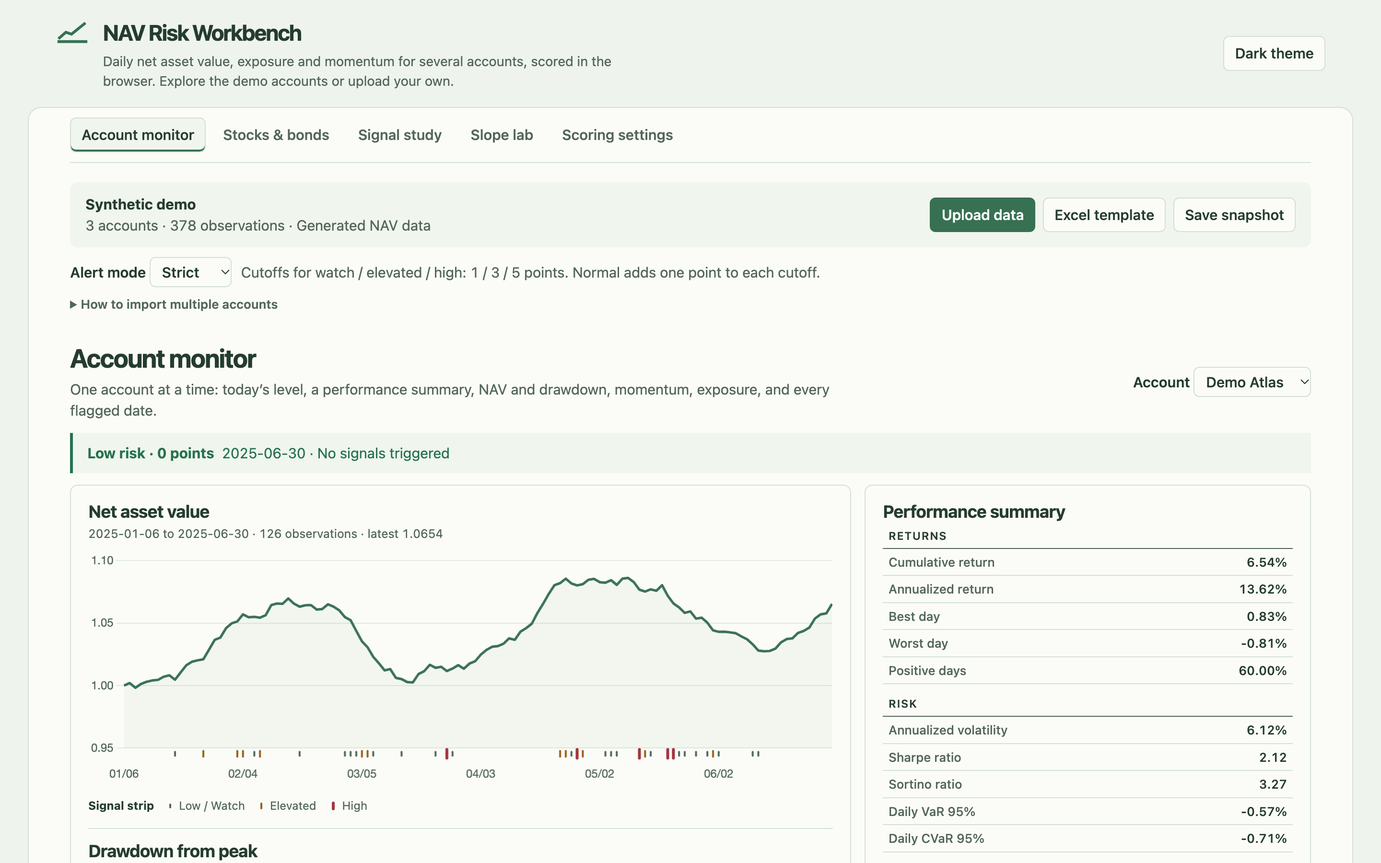
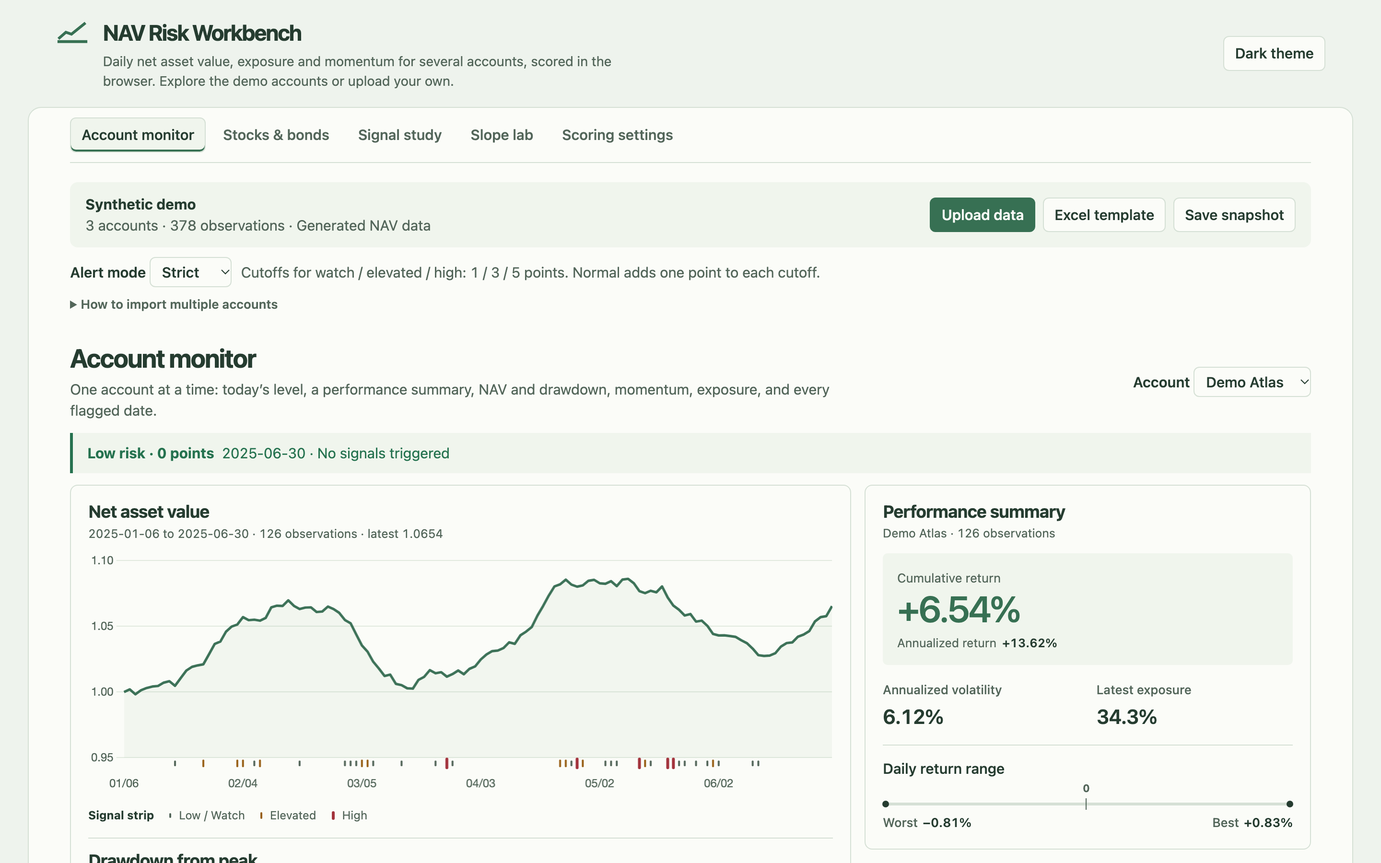
Performance summary as a focused card: cumulative return as the one highlight with annualized return beneath, volatility beside latest exposure, a daily return range on a zero-marked line; worst drawdowns move under the card and the full metrics become a four-group grid with collapsed calculation no

diff --git a/index.html b/index.html
@@ -6,17 +6,20 @@
 *{box-sizing:border-box}body{margin:0;background:var(--bg);color:var(--ink)}header,main{max-width:1410px;margin:auto}header,.brand,.actions,.bar,.mode,.filters,.title,footer,.legend{display:flex;align-items:center;gap:14px;flex-wrap:wrap}header{padding:17px 3%;justify-content:space-between}.brand{align-items:flex-start}.brand svg{width:35px;flex:none;margin-top:4px;color:var(--accent)}h1{font-size:23px;letter-spacing:-.045em;margin:0}.lede{margin:3px 0 0;font-size:14px;line-height:1.45;color:var(--muted);max-width:62ch}main{background:var(--paper);border:1px solid var(--line);border-radius:14px;padding:0 clamp(16px,3vw,44px);width:96%;margin-bottom:20px}nav{display:flex;gap:6px;border-bottom:1px solid var(--line);padding:10px 0;flex-wrap:wrap}button,.file,select,input{font:inherit}button,.file,select{border:1px solid var(--line);color:var(--ink);background:var(--paper);border-radius:6px;padding:6px 11px;font-weight:550;cursor:pointer}button:hover,.file:hover{background:var(--tint);border-color:var(--muted)}button:focus-visible,select:focus-visible,input:focus-visible,textarea:focus-visible,.file:focus-within{outline:2px solid var(--accent);outline-offset:2px}.primary{background:var(--accent);border-color:var(--accent);color:var(--paper)}.primary:hover{background:var(--ink);color:var(--paper)}nav button{border-color:transparent;background:transparent;color:var(--muted)}nav button.active,.seg button.active{color:var(--ink);background:var(--tint);border-color:var(--line)}nav button.active{box-shadow:inset 0 -2px 0 var(--accent)}.file{position:relative}.file input{height:1px;width:1px;opacity:0;position:absolute}.bar{justify-content:space-between;background:var(--tint);padding:12px 16px;border-radius:8px}.actions{gap:8px}#workspace{margin:20px 0}.mode{margin-top:10px;gap:10px}.mode span,.muted,p,footer,.hint{color:var(--muted)}p{margin:5px 0 12px;max-width:87ch}label{font-weight:600}select{padding:5px 8px;max-width:100%}output{display:block;color:var(--accent)}output.error{color:var(--red)}.title{justify-content:space-between;margin:22px 0 12px}.title p{margin-bottom:0}h2,h3,h4{margin:0;color:var(--ink);line-height:1.22}h2{font-size:27px;letter-spacing:-.04em}h3{font-size:18px;letter-spacing:-.02em}h4{font-size:15px}section[data-view]{padding-bottom:20px}.panel,details{border:1px solid var(--line);border-radius:8px;padding:16px 18px;margin-top:12px;min-width:0}.panel p:last-child,details p:last-child{margin-bottom:0}.riskline{padding:10px 15px;border-left:3px solid var(--accent);background:var(--tint)}.riskline.level-Low{border-left-color:var(--good)}.riskline.level-Watch,.riskline.level-Elevated{border-left-color:var(--amber)}.riskline.level-High{border-left-color:var(--red)}.riskline b{margin-right:8px}.metrics{display:grid;grid-template-columns:repeat(4,minmax(0,1fr));margin:14px 0;border-block:1px solid var(--line)}.metric{padding:13px 14px}.metric+.metric{border-left:1px solid var(--line)}.metric b{font-size:26px;display:block;letter-spacing:-.04em;font-weight:550}.metric small,.hint,small{color:var(--muted)}.spark{position:relative;height:22px;margin-top:5px}.pair{display:grid;grid-template-columns:repeat(2,minmax(0,1fr));gap:14px}.plot{position:relative;height:230px}.pair .plot{height:195px}.top{display:flex;align-items:center;justify-content:space-between;gap:12px;margin-bottom:8px;flex-wrap:wrap}.legend{font-size:13px;color:var(--muted);gap:15px;margin:6px 0}.legend i{display:inline-block;width:14px;height:3px;vertical-align:middle;margin-right:5px}.seg{display:flex}.seg button{font-size:13px}.table{overflow:auto;max-width:100%}table{border-collapse:collapse;width:100%;font-size:14px}th,td{border-bottom:1px solid var(--line);padding:9px 10px;text-align:left;white-space:nowrap}th{color:var(--muted);font-weight:550}td.num,th.num{text-align:right}td.wrap{white-space:normal;min-width:160px}.filters,.settings-controls{display:flex;align-items:center;flex-wrap:wrap;gap:12px;margin-top:10px}summary{cursor:pointer;font-weight:600}details p{margin-top:10px}textarea{background:var(--paper);color:var(--ink);border:1px solid var(--line);border-radius:5px;width:100%;height:170px;padding:10px;font-size:15px;margin:8px 0;resize:vertical}input[type=number]{width:80px;color:var(--ink);background:var(--paper);border:1px solid var(--line);padding:5px;border-radius:4px}.barchart{display:grid;gap:9px}.bucket{display:grid;grid-template-columns:136px 1fr 150px;align-items:center;gap:8px}.bucket small{color:var(--muted);margin-left:8px;font-variant-numeric:tabular-nums}.bucket i{height:8px;background:var(--accent);display:block}.bucket span:last-child{text-align:right}footer{border-top:1px solid var(--line);padding:16px 0;font-size:13px;justify-content:space-between}.pill{display:inline-block;padding:2px 9px;border-radius:999px;font-size:12.5px;font-weight:600;background:var(--tint);line-height:1.4}.level-High{color:var(--red)}.level-Elevated,.level-Watch{color:var(--amber)}.level-Low{color:var(--good)}[hidden]{display:none!important}a{color:var(--accent)}
 @media(max-width:760px){header{padding:10px 14px}h1{font-size:19px}main{width:100%;border-radius:0;border-inline:0}.pair{grid-template-columns:1fr}.metrics{grid-template-columns:repeat(2,minmax(0,1fr))}.metric:nth-child(3){border-left:0}.bar,.title{align-items:flex-start}.panel{padding:12px}.plot{height:210px}nav{gap:2px}nav button{font-size:13px;padding:6px}.mode{align-items:flex-start;flex-direction:column}.bucket{grid-template-columns:102px 1fr 112px;font-size:13px}.settings-controls label{font-size:14px}.metric b{font-size:22px}}
 .uploadHelp{margin:8px 0;padding:0;border:0;font-size:13px}.uploadHelp summary{color:var(--muted)}
-.trajectory .plot{height:252px}.trajectory .plot.dd{height:140px}
+.trajectory .plot{height:262px}.trajectory .plot.dd{height:150px}
 .top.under{margin-top:14px;padding-top:12px;border-top:1px solid var(--line)}
 .signal-key,.signal-key span{display:flex;align-items:center;gap:8px}
 .signal-key{flex-wrap:wrap;gap:9px 16px;margin-top:5px;color:var(--muted);font-size:12px}
 .signal-key b{color:var(--ink)}.signal-key i{width:2px;height:5px;background:var(--muted);border-radius:2px}
 .signal-key .elevated{height:7px;background:var(--amber)}.signal-key .high{width:3px;height:9px;background:var(--red)}
-.tear{display:grid;grid-template-columns:minmax(0,1.75fr) minmax(0,1fr);gap:14px}.tear2{display:grid;grid-template-columns:minmax(0,1fr) minmax(0,1.25fr);gap:14px}
-.kv{width:100%;border-collapse:collapse;font-size:13px;margin-top:2px}.kv th,.kv td{border-bottom:1px solid var(--line);padding:4px 6px;white-space:nowrap}.kv th{text-align:left;font-weight:500;color:var(--muted)}.kv td{text-align:right;font-weight:550}
-.kv tr.group th{padding-top:12px;font-size:11.5px;letter-spacing:.07em;text-transform:uppercase;color:var(--ink);font-weight:600;border-bottom-color:var(--muted)}.kv tr.group:first-child th{padding-top:4px}
-.foot{display:block;margin-top:10px;font-size:12.5px;line-height:1.4}.monthly th,.monthly td{padding:7px 6px;font-size:13px}.monthly th:first-child{text-align:left}.neg{color:var(--red)}
-@media(max-width:1000px){.tear,.tear2{grid-template-columns:1fr}}
+.tear{display:grid;grid-template-columns:minmax(0,1.75fr) minmax(0,1fr);gap:14px}.side{display:flex;flex-direction:column;gap:14px;margin-top:12px;min-width:0}.side .panel{margin-top:0}.side .panel:last-child{flex:1}
+.summary>small{display:block;margin-top:2px}.lead{margin-top:12px;background:var(--tint);padding:14px 15px;border-radius:5px}.lead span{font-size:13px;color:var(--muted)}.lead strong{display:block;font-size:38px;line-height:1.15;font-weight:570;letter-spacing:-.05em;color:var(--accent)}.lead strong.neg{color:var(--red)}.lead small{display:block;margin-top:4px;color:var(--muted)}.lead small b{color:var(--ink);font-weight:600;margin-left:6px}
+.row{display:grid;grid-template-columns:1fr 1fr;gap:18px;margin:0;padding:16px 0 14px}.row dt{font-size:13px;color:var(--muted);font-weight:500}.row dd{margin:3px 0 0;font-weight:600;font-size:21px;letter-spacing:-.02em}
+.range{margin:0;border-top:1px solid var(--line);padding:13px 0 2px}.range figcaption{font-weight:550;margin-bottom:24px}.track{position:relative;height:3px;margin:0 3px;background:var(--line);border-radius:3px}.track i,.track b{position:absolute;top:50%;width:7px;height:7px;background:var(--ink);border-radius:50%;transform:translate(-50%,-50%)}.track i:first-child{left:0}.track i:last-child{left:100%}.track b{width:1px;height:12px;border-radius:0;background:var(--muted)}.track b em{position:absolute;left:50%;top:-16px;transform:translateX(-50%);font-size:11px;line-height:1;font-style:normal;color:var(--muted)}.ends{display:flex;justify-content:space-between;margin-top:8px;font-size:13px;font-weight:600}.ends span{color:var(--muted);font-weight:500;margin-right:5px}
+.mgrid{display:grid;grid-template-columns:repeat(4,minmax(0,1fr));gap:22px;margin:14px 0 2px}.mgrid h4{border-bottom:1px solid var(--line);padding-bottom:8px;font-size:11.5px;letter-spacing:.07em;text-transform:uppercase}.mgrid dl{display:grid;grid-template-columns:minmax(0,1fr) auto;gap:7px 14px;margin:10px 0 0}.mgrid dt{color:var(--muted);font-size:13.5px}.mgrid dd{margin:0;text-align:right;font-weight:550;font-size:13.5px;white-space:nowrap}
+.panel details.method{border:0;border-top:1px solid var(--line);border-radius:0;padding:12px 0 0;margin-top:16px}.method summary{font-size:14px}.method p{font-size:13px;margin:8px 0 0}
+.monthly th,.monthly td{padding:7px 6px;font-size:13px}.monthly th:first-child{text-align:left}.neg{color:var(--red)}
+@media(max-width:1000px){.tear{grid-template-columns:1fr}.mgrid{grid-template-columns:repeat(2,minmax(0,1fr))}}@media(max-width:540px){.mgrid{grid-template-columns:1fr;gap:6px}.mgrid section+section{margin-top:14px}.lead strong{font-size:34px}}
 #monitor .pair .plot{height:215px}.minis{display:grid;gap:8px}.minis small{display:block;margin-bottom:2px;color:var(--muted)}.minis .plot{height:96px}.legend-note{margin:0 0 6px;font-size:13px;color:var(--muted)}
 @media(max-width:760px){.trajectory .plot{height:205px}.trajectory .plot.dd{height:100px}.signal-key{gap:7px 12px}}
 </style></head>
@@ -481,13 +484,21 @@ function monitor(){
   const days=Number(SCORE_CONFIG.capacity.tradingDaysPerYear)||252, s=summarize(d,days);
   const latest=last.signals?last.signals.split('|').join(' · '):'No signals triggered';
   const rows=d.filter(r=>r.signals).slice(-40).reverse().map(r=>[r.date,r.score,r.signals.split('|').join(' · '),r.action||'—','<span class="pill level-'+r.level+'">'+r.level+'</span>']);
-  const kv=(label,value)=>'<tr><th>'+label+'</th><td>'+value+'</td></tr>', group=name=>'<tr class="group"><th colspan="2">'+name+'</th></tr>';
-  const summary='<table class="kv">'+
-    group('Returns')+kv('Cumulative return',percent(s.total))+kv('Annualized return',percent(s.cagr))+kv('Best day',percent(s.best))+kv('Worst day',percent(s.worst))+kv('Positive days',percent(s.winRate))+
-    group('Risk')+kv('Annualized volatility',percent(s.vol))+kv('Sharpe ratio',fmt(s.sharpe))+kv('Sortino ratio',fmt(s.sortino))+kv('Daily VaR 95%',percent(s.var95))+kv('Daily CVaR 95%',percent(s.cvar95))+
-    group('Drawdown')+kv('Max drawdown',percent(s.maxDD))+kv('Longest drawdown',s.longest?s.longest+' obs':'—')+kv('Calmar ratio',fmt(s.calmar))+kv('Current drawdown',percent(last.dd))+
-    group('Exposure')+kv('Latest exposure',fmt(last.risk,1,'%'))+kv('Average exposure',fmt(s.avgRisk,1,'%'))+kv('Peak exposure',fmt(s.maxRisk,1,'%'))+'</table>';
-  const periods=drawdownPeriods(d).slice(0,5).map(p=>[p.start,p.trough,p.end||'<span class="pill level-Watch">Ongoing</span>',percent(p.depth),p.length]);
+  const name=active==='combined'?'Combined · equal weight':escapeHTML(active.slice(8));
+  const signed=(v,digits=2)=>v==null||!Number.isFinite(v)?'—':(v>0?'+':v<0?'−':'')+Math.abs(v*100).toFixed(digits)+'%';
+  const span=s.best!=null&&s.worst!=null&&s.best>s.worst?s.best-s.worst:null;
+  const zero=span?clamp(-s.worst/span*100,0,100):50;
+  const range=s.best==null?'':'<figure class="range"><figcaption>Daily return range</figcaption><div class="track" aria-hidden="true"><i></i><b style="left:'+zero.toFixed(2)+'%"><em>0</em></b><i></i></div><div class="ends"><div><span>Worst</span>'+signed(s.worst)+'</div><div><span>Best</span>'+signed(s.best)+'</div></div></figure>';
+  const card='<div class="panel summary"><h3>Performance summary</h3><small>'+name+' · '+s.n+' observations</small>'+
+    '<div class="lead"><span>Cumulative return</span><strong class="'+(s.total<0?'neg':'')+'">'+signed(s.total)+'</strong><small>Annualized return<b>'+signed(s.cagr)+'</b></small></div>'+
+    '<dl class="row"><div><dt>Annualized volatility</dt><dd>'+percent(s.vol)+'</dd></div><div><dt>Latest exposure</dt><dd>'+fmt(last.risk,1,'%')+'</dd></div></dl>'+range+'</div>';
+  const groups=[['Returns',[['Cumulative return',signed(s.total)],['Annualized return',signed(s.cagr)],['Best day',signed(s.best)],['Worst day',signed(s.worst)],['Positive days',percent(s.winRate)]]],
+    ['Risk',[['Annualized volatility',percent(s.vol)],['Sharpe ratio',fmt(s.sharpe)],['Sortino ratio',fmt(s.sortino)],['Daily VaR 95%',signed(s.var95)],['Daily CVaR 95%',signed(s.cvar95)]]],
+    ['Drawdown',[['Max drawdown',signed(s.maxDD)],['Longest drawdown',s.longest?s.longest+' obs':'—'],['Calmar ratio',fmt(s.calmar)],['Current drawdown',signed(last.dd)]]],
+    ['Exposure',[['Latest exposure',fmt(last.risk,1,'%')],['Average exposure',fmt(s.avgRisk,1,'%')],['Peak exposure',fmt(s.maxRisk,1,'%')]]]];
+  const metrics='<div class="panel"><h3>Performance metrics</h3><small>'+name+' · '+s.start+' to '+s.end+' · '+s.n+' observations</small><div class="mgrid">'+groups.map(([g,items])=>'<section><h4>'+g+'</h4><dl>'+items.map(([k,v])=>'<dt>'+k+'</dt><dd>'+v+'</dd>').join('')+'</dl></section>').join('')+'</div>'+
+    '<details class="method"><summary>Calculation notes</summary><p>Each observation counts as one trading day; annualized figures use '+days+' per year. Daily VaR is the historical 5th percentile of daily returns and CVaR the mean of that tail. Sharpe and Sortino assume a zero risk-free rate. A drawdown’s length counts observations from the peak.</p></details></div>';
+  const periods=drawdownPeriods(d).slice(0,5).map(p=>[p.start,p.end||'<span class="pill level-Watch">Ongoing</span>',signed(p.depth),p.length]);
   const months=['Jan','Feb','Mar','Apr','May','Jun','Jul','Aug','Sep','Oct','Nov','Dec'], pct1=v=>v==null?'—':'<span class="'+(v<0?'neg':'')+'">'+fmt(v*100,1,'%')+'</span>';
   const monthly='<div class="table"><table class="monthly"><thead><tr><th>Year</th>'+months.map(m=>'<th class="num">'+m+'</th>').join('')+'<th class="num">Year</th></tr></thead><tbody>'+
     monthlyReturns(d).map(y=>'<tr><th>'+y.year+'</th>'+months.map((_,i)=>'<td class="num">'+pct1(y.months[i+1])+'</td>').join('')+'<td class="num"><b>'+pct1(y.total)+'</b></td></tr>').join('')+'</tbody></table></div>';
@@ -495,11 +506,11 @@ function monitor(){
     '<div class="tear"><div class="panel trajectory"><div class="top"><div><h3>Net asset value</h3><small>'+s.start+' to '+s.end+' · '+s.n+' observations · latest '+fmt(last.nav,4)+'</small></div></div>'+
     '<div class="plot"><canvas id="navChart" role="img" aria-label="Net asset value with signal dates marked along the time axis"></canvas></div>'+
     '<div class="signal-key"><b>Signal strip</b><span><i></i>Low / Watch</span><span><i class="elevated"></i>Elevated</span><span><i class="high"></i>High</span></div>'+
-    '<div class="top under"><div><h3>Drawdown from peak</h3><small>Worst '+percent(s.maxDD)+' · now '+percent(last.dd)+'</small></div></div><div class="plot dd"><canvas id="ddChart" role="img" aria-label="Drawdown from peak, in percent"></canvas></div></div>'+
-    '<div class="panel summary"><h3>Performance summary</h3>'+summary+'<small class="foot">Each observation counts as one trading day; annualized figures use '+days+' per year. VaR and CVaR are the historical 5th percentile of daily returns and the mean below it. Sharpe and Sortino assume a zero risk-free rate.</small></div></div><div class="pair">'+
+    '<div class="top under"><div><h3>Drawdown from peak</h3><small>Worst '+signed(s.maxDD)+' · now '+signed(last.dd)+'</small></div></div><div class="plot dd"><canvas id="ddChart" role="img" aria-label="Drawdown from peak, in percent"></canvas></div></div>'+
+    '<div class="side">'+card+'<div class="panel"><h3>Worst drawdowns</h3><p>Peak to recovery, deepest first. Length counts observations from the peak.</p>'+(periods.length?table(['Started','Recovered','Depth','Length'],periods,[2,3]):'<p>No drawdown in this series.</p>')+'</div></div></div>'+
+    metrics+'<div class="pair">'+
     panel('Momentum slopes','slopes','NAV change (%) per observation. The 3-obs slope leads; the 10-obs slope is its reference. Click a legend entry to hide a line.')+'<div class="panel"><h3>Exposure and volatility</h3><p>Capital in use, then annualized 10-return volatility, on the same dates.</p><div class="minis"><div><small>Exposure (%)</small><div class="plot"><canvas id="risk" role="img" aria-label="Exposure"></canvas></div></div><div><small>Annualized volatility (%)</small><div class="plot"><canvas id="vol" role="img" aria-label="Annualized volatility"></canvas></div></div></div></div></div>'+
-    '<div class="tear2"><div class="panel"><h3>Worst drawdowns</h3><p>Peak to recovery, deepest first. Length counts observations from the peak.</p>'+(periods.length?table(['Started','Trough','Recovered','Depth','Length'],periods,[3,4]):'<p>No drawdown in this series.</p>')+'</div>'+
-    '<div class="panel"><h3>Monthly returns</h3><p>Chained from the daily returns inside each calendar month.</p>'+monthly+'</div></div>'+
+    '<div class="panel"><h3>Monthly returns</h3><p>Chained from the daily returns inside each calendar month.</p>'+monthly+'</div>'+
     '<div class="panel"><h3>Alert history</h3><p>Latest 40 flagged observations, newest first.</p>'+
     (rows.length?table(['Date','Score','Signals','Review note','Level'],rows,[1]):'<p>No signals in this series.</p>')+'</div>';
   plot('navChart',labels,[line('NAV',d.map(r=>r.nav),'forest',{

diff --git a/src/style.css b/src/style.css
@@ -3,16 +3,19 @@
 *{box-sizing:border-box}body{margin:0;background:var(--bg);color:var(--ink)}header,main{max-width:1410px;margin:auto}header,.brand,.actions,.bar,.mode,.filters,.title,footer,.legend{display:flex;align-items:center;gap:14px;flex-wrap:wrap}header{padding:17px 3%;justify-content:space-between}.brand{align-items:flex-start}.brand svg{width:35px;flex:none;margin-top:4px;color:var(--accent)}h1{font-size:23px;letter-spacing:-.045em;margin:0}.lede{margin:3px 0 0;font-size:14px;line-height:1.45;color:var(--muted);max-width:62ch}main{background:var(--paper);border:1px solid var(--line);border-radius:14px;padding:0 clamp(16px,3vw,44px);width:96%;margin-bottom:20px}nav{display:flex;gap:6px;border-bottom:1px solid var(--line);padding:10px 0;flex-wrap:wrap}button,.file,select,input{font:inherit}button,.file,select{border:1px solid var(--line);color:var(--ink);background:var(--paper);border-radius:6px;padding:6px 11px;font-weight:550;cursor:pointer}button:hover,.file:hover{background:var(--tint);border-color:var(--muted)}button:focus-visible,select:focus-visible,input:focus-visible,textarea:focus-visible,.file:focus-within{outline:2px solid var(--accent);outline-offset:2px}.primary{background:var(--accent);border-color:var(--accent);color:var(--paper)}.primary:hover{background:var(--ink);color:var(--paper)}nav button{border-color:transparent;background:transparent;color:var(--muted)}nav button.active,.seg button.active{color:var(--ink);background:var(--tint);border-color:var(--line)}nav button.active{box-shadow:inset 0 -2px 0 var(--accent)}.file{position:relative}.file input{height:1px;width:1px;opacity:0;position:absolute}.bar{justify-content:space-between;background:var(--tint);padding:12px 16px;border-radius:8px}.actions{gap:8px}#workspace{margin:20px 0}.mode{margin-top:10px;gap:10px}.mode span,.muted,p,footer,.hint{color:var(--muted)}p{margin:5px 0 12px;max-width:87ch}label{font-weight:600}select{padding:5px 8px;max-width:100%}output{display:block;color:var(--accent)}output.error{color:var(--red)}.title{justify-content:space-between;margin:22px 0 12px}.title p{margin-bottom:0}h2,h3,h4{margin:0;color:var(--ink);line-height:1.22}h2{font-size:27px;letter-spacing:-.04em}h3{font-size:18px;letter-spacing:-.02em}h4{font-size:15px}section[data-view]{padding-bottom:20px}.panel,details{border:1px solid var(--line);border-radius:8px;padding:16px 18px;margin-top:12px;min-width:0}.panel p:last-child,details p:last-child{margin-bottom:0}.riskline{padding:10px 15px;border-left:3px solid var(--accent);background:var(--tint)}.riskline.level-Low{border-left-color:var(--good)}.riskline.level-Watch,.riskline.level-Elevated{border-left-color:var(--amber)}.riskline.level-High{border-left-color:var(--red)}.riskline b{margin-right:8px}.metrics{display:grid;grid-template-columns:repeat(4,minmax(0,1fr));margin:14px 0;border-block:1px solid var(--line)}.metric{padding:13px 14px}.metric+.metric{border-left:1px solid var(--line)}.metric b{font-size:26px;display:block;letter-spacing:-.04em;font-weight:550}.metric small,.hint,small{color:var(--muted)}.spark{position:relative;height:22px;margin-top:5px}.pair{display:grid;grid-template-columns:repeat(2,minmax(0,1fr));gap:14px}.plot{position:relative;height:230px}.pair .plot{height:195px}.top{display:flex;align-items:center;justify-content:space-between;gap:12px;margin-bottom:8px;flex-wrap:wrap}.legend{font-size:13px;color:var(--muted);gap:15px;margin:6px 0}.legend i{display:inline-block;width:14px;height:3px;vertical-align:middle;margin-right:5px}.seg{display:flex}.seg button{font-size:13px}.table{overflow:auto;max-width:100%}table{border-collapse:collapse;width:100%;font-size:14px}th,td{border-bottom:1px solid var(--line);padding:9px 10px;text-align:left;white-space:nowrap}th{color:var(--muted);font-weight:550}td.num,th.num{text-align:right}td.wrap{white-space:normal;min-width:160px}.filters,.settings-controls{display:flex;align-items:center;flex-wrap:wrap;gap:12px;margin-top:10px}summary{cursor:pointer;font-weight:600}details p{margin-top:10px}textarea{background:var(--paper);color:var(--ink);border:1px solid var(--line);border-radius:5px;width:100%;height:170px;padding:10px;font-size:15px;margin:8px 0;resize:vertical}input[type=number]{width:80px;color:var(--ink);background:var(--paper);border:1px solid var(--line);padding:5px;border-radius:4px}.barchart{display:grid;gap:9px}.bucket{display:grid;grid-template-columns:136px 1fr 150px;align-items:center;gap:8px}.bucket small{color:var(--muted);margin-left:8px;font-variant-numeric:tabular-nums}.bucket i{height:8px;background:var(--accent);display:block}.bucket span:last-child{text-align:right}footer{border-top:1px solid var(--line);padding:16px 0;font-size:13px;justify-content:space-between}.pill{display:inline-block;padding:2px 9px;border-radius:999px;font-size:12.5px;font-weight:600;background:var(--tint);line-height:1.4}.level-High{color:var(--red)}.level-Elevated,.level-Watch{color:var(--amber)}.level-Low{color:var(--good)}[hidden]{display:none!important}a{color:var(--accent)}
 @media(max-width:760px){header{padding:10px 14px}h1{font-size:19px}main{width:100%;border-radius:0;border-inline:0}.pair{grid-template-columns:1fr}.metrics{grid-template-columns:repeat(2,minmax(0,1fr))}.metric:nth-child(3){border-left:0}.bar,.title{align-items:flex-start}.panel{padding:12px}.plot{height:210px}nav{gap:2px}nav button{font-size:13px;padding:6px}.mode{align-items:flex-start;flex-direction:column}.bucket{grid-template-columns:102px 1fr 112px;font-size:13px}.settings-controls label{font-size:14px}.metric b{font-size:22px}}
 .uploadHelp{margin:8px 0;padding:0;border:0;font-size:13px}.uploadHelp summary{color:var(--muted)}
-.trajectory .plot{height:252px}.trajectory .plot.dd{height:140px}
+.trajectory .plot{height:262px}.trajectory .plot.dd{height:150px}
 .top.under{margin-top:14px;padding-top:12px;border-top:1px solid var(--line)}
 .signal-key,.signal-key span{display:flex;align-items:center;gap:8px}
 .signal-key{flex-wrap:wrap;gap:9px 16px;margin-top:5px;color:var(--muted);font-size:12px}
 .signal-key b{color:var(--ink)}.signal-key i{width:2px;height:5px;background:var(--muted);border-radius:2px}
 .signal-key .elevated{height:7px;background:var(--amber)}.signal-key .high{width:3px;height:9px;background:var(--red)}
-.tear{display:grid;grid-template-columns:minmax(0,1.75fr) minmax(0,1fr);gap:14px}.tear2{display:grid;grid-template-columns:minmax(0,1fr) minmax(0,1.25fr);gap:14px}
-.kv{width:100%;border-collapse:collapse;font-size:13px;margin-top:2px}.kv th,.kv td{border-bottom:1px solid var(--line);padding:4px 6px;white-space:nowrap}.kv th{text-align:left;font-weight:500;color:var(--muted)}.kv td{text-align:right;font-weight:550}
-.kv tr.group th{padding-top:12px;font-size:11.5px;letter-spacing:.07em;text-transform:uppercase;color:var(--ink);font-weight:600;border-bottom-color:var(--muted)}.kv tr.group:first-child th{padding-top:4px}
-.foot{display:block;margin-top:10px;font-size:12.5px;line-height:1.4}.monthly th,.monthly td{padding:7px 6px;font-size:13px}.monthly th:first-child{text-align:left}.neg{color:var(--red)}
-@media(max-width:1000px){.tear,.tear2{grid-template-columns:1fr}}
+.tear{display:grid;grid-template-columns:minmax(0,1.75fr) minmax(0,1fr);gap:14px}.side{display:flex;flex-direction:column;gap:14px;margin-top:12px;min-width:0}.side .panel{margin-top:0}.side .panel:last-child{flex:1}
+.summary>small{display:block;margin-top:2px}.lead{margin-top:12px;background:var(--tint);padding:14px 15px;border-radius:5px}.lead span{font-size:13px;color:var(--muted)}.lead strong{display:block;font-size:38px;line-height:1.15;font-weight:570;letter-spacing:-.05em;color:var(--accent)}.lead strong.neg{color:var(--red)}.lead small{display:block;margin-top:4px;color:var(--muted)}.lead small b{color:var(--ink);font-weight:600;margin-left:6px}
+.row{display:grid;grid-template-columns:1fr 1fr;gap:18px;margin:0;padding:16px 0 14px}.row dt{font-size:13px;color:var(--muted);font-weight:500}.row dd{margin:3px 0 0;font-weight:600;font-size:21px;letter-spacing:-.02em}
+.range{margin:0;border-top:1px solid var(--line);padding:13px 0 2px}.range figcaption{font-weight:550;margin-bottom:24px}.track{position:relative;height:3px;margin:0 3px;background:var(--line);border-radius:3px}.track i,.track b{position:absolute;top:50%;width:7px;height:7px;background:var(--ink);border-radius:50%;transform:translate(-50%,-50%)}.track i:first-child{left:0}.track i:last-child{left:100%}.track b{width:1px;height:12px;border-radius:0;background:var(--muted)}.track b em{position:absolute;left:50%;top:-16px;transform:translateX(-50%);font-size:11px;line-height:1;font-style:normal;color:var(--muted)}.ends{display:flex;justify-content:space-between;margin-top:8px;font-size:13px;font-weight:600}.ends span{color:var(--muted);font-weight:500;margin-right:5px}
+.mgrid{display:grid;grid-template-columns:repeat(4,minmax(0,1fr));gap:22px;margin:14px 0 2px}.mgrid h4{border-bottom:1px solid var(--line);padding-bottom:8px;font-size:11.5px;letter-spacing:.07em;text-transform:uppercase}.mgrid dl{display:grid;grid-template-columns:minmax(0,1fr) auto;gap:7px 14px;margin:10px 0 0}.mgrid dt{color:var(--muted);font-size:13.5px}.mgrid dd{margin:0;text-align:right;font-weight:550;font-size:13.5px;white-space:nowrap}
+.panel details.method{border:0;border-top:1px solid var(--line);border-radius:0;padding:12px 0 0;margin-top:16px}.method summary{font-size:14px}.method p{font-size:13px;margin:8px 0 0}
+.monthly th,.monthly td{padding:7px 6px;font-size:13px}.monthly th:first-child{text-align:left}.neg{color:var(--red)}
+@media(max-width:1000px){.tear{grid-template-columns:1fr}.mgrid{grid-template-columns:repeat(2,minmax(0,1fr))}}@media(max-width:540px){.mgrid{grid-template-columns:1fr;gap:6px}.mgrid section+section{margin-top:14px}.lead strong{font-size:34px}}
 #monitor .pair .plot{height:215px}.minis{display:grid;gap:8px}.minis small{display:block;margin-bottom:2px;color:var(--muted)}.minis .plot{height:96px}.legend-note{margin:0 0 6px;font-size:13px;color:var(--muted)}
 @media(max-width:760px){.trajectory .plot{height:205px}.trajectory .plot.dd{height:100px}.signal-key{gap:7px 12px}}

diff --git a/src/app.js b/src/app.js
@@ -124,13 +124,21 @@ function monitor(){
   const days=Number(SCORE_CONFIG.capacity.tradingDaysPerYear)||252, s=summarize(d,days);
   const latest=last.signals?last.signals.split('|').join(' · '):'No signals triggered';
   const rows=d.filter(r=>r.signals).slice(-40).reverse().map(r=>[r.date,r.score,r.signals.split('|').join(' · '),r.action||'—','<span class="pill level-'+r.level+'">'+r.level+'</span>']);
-  const kv=(label,value)=>'<tr><th>'+label+'</th><td>'+value+'</td></tr>', group=name=>'<tr class="group"><th colspan="2">'+name+'</th></tr>';
-  const summary='<table class="kv">'+
-    group('Returns')+kv('Cumulative return',percent(s.total))+kv('Annualized return',percent(s.cagr))+kv('Best day',percent(s.best))+kv('Worst day',percent(s.worst))+kv('Positive days',percent(s.winRate))+
-    group('Risk')+kv('Annualized volatility',percent(s.vol))+kv('Sharpe ratio',fmt(s.sharpe))+kv('Sortino ratio',fmt(s.sortino))+kv('Daily VaR 95%',percent(s.var95))+kv('Daily CVaR 95%',percent(s.cvar95))+
-    group('Drawdown')+kv('Max drawdown',percent(s.maxDD))+kv('Longest drawdown',s.longest?s.longest+' obs':'—')+kv('Calmar ratio',fmt(s.calmar))+kv('Current drawdown',percent(last.dd))+
-    group('Exposure')+kv('Latest exposure',fmt(last.risk,1,'%'))+kv('Average exposure',fmt(s.avgRisk,1,'%'))+kv('Peak exposure',fmt(s.maxRisk,1,'%'))+'</table>';
-  const periods=drawdownPeriods(d).slice(0,5).map(p=>[p.start,p.trough,p.end||'<span class="pill level-Watch">Ongoing</span>',percent(p.depth),p.length]);
+  const name=active==='combined'?'Combined · equal weight':escapeHTML(active.slice(8));
+  const signed=(v,digits=2)=>v==null||!Number.isFinite(v)?'—':(v>0?'+':v<0?'−':'')+Math.abs(v*100).toFixed(digits)+'%';
+  const span=s.best!=null&&s.worst!=null&&s.best>s.worst?s.best-s.worst:null;
+  const zero=span?clamp(-s.worst/span*100,0,100):50;
+  const range=s.best==null?'':'<figure class="range"><figcaption>Daily return range</figcaption><div class="track" aria-hidden="true"><i></i><b style="left:'+zero.toFixed(2)+'%"><em>0</em></b><i></i></div><div class="ends"><div><span>Worst</span>'+signed(s.worst)+'</div><div><span>Best</span>'+signed(s.best)+'</div></div></figure>';
+  const card='<div class="panel summary"><h3>Performance summary</h3><small>'+name+' · '+s.n+' observations</small>'+
+    '<div class="lead"><span>Cumulative return</span><strong class="'+(s.total<0?'neg':'')+'">'+signed(s.total)+'</strong><small>Annualized return<b>'+signed(s.cagr)+'</b></small></div>'+
+    '<dl class="row"><div><dt>Annualized volatility</dt><dd>'+percent(s.vol)+'</dd></div><div><dt>Latest exposure</dt><dd>'+fmt(last.risk,1,'%')+'</dd></div></dl>'+range+'</div>';
+  const groups=[['Returns',[['Cumulative return',signed(s.total)],['Annualized return',signed(s.cagr)],['Best day',signed(s.best)],['Worst day',signed(s.worst)],['Positive days',percent(s.winRate)]]],
+    ['Risk',[['Annualized volatility',percent(s.vol)],['Sharpe ratio',fmt(s.sharpe)],['Sortino ratio',fmt(s.sortino)],['Daily VaR 95%',signed(s.var95)],['Daily CVaR 95%',signed(s.cvar95)]]],
+    ['Drawdown',[['Max drawdown',signed(s.maxDD)],['Longest drawdown',s.longest?s.longest+' obs':'—'],['Calmar ratio',fmt(s.calmar)],['Current drawdown',signed(last.dd)]]],
+    ['Exposure',[['Latest exposure',fmt(last.risk,1,'%')],['Average exposure',fmt(s.avgRisk,1,'%')],['Peak exposure',fmt(s.maxRisk,1,'%')]]]];
+  const metrics='<div class="panel"><h3>Performance metrics</h3><small>'+name+' · '+s.start+' to '+s.end+' · '+s.n+' observations</small><div class="mgrid">'+groups.map(([g,items])=>'<section><h4>'+g+'</h4><dl>'+items.map(([k,v])=>'<dt>'+k+'</dt><dd>'+v+'</dd>').join('')+'</dl></section>').join('')+'</div>'+
+    '<details class="method"><summary>Calculation notes</summary><p>Each observation counts as one trading day; annualized figures use '+days+' per year. Daily VaR is the historical 5th percentile of daily returns and CVaR the mean of that tail. Sharpe and Sortino assume a zero risk-free rate. A drawdown’s length counts observations from the peak.</p></details></div>';
+  const periods=drawdownPeriods(d).slice(0,5).map(p=>[p.start,p.end||'<span class="pill level-Watch">Ongoing</span>',signed(p.depth),p.length]);
   const months=['Jan','Feb','Mar','Apr','May','Jun','Jul','Aug','Sep','Oct','Nov','Dec'], pct1=v=>v==null?'—':'<span class="'+(v<0?'neg':'')+'">'+fmt(v*100,1,'%')+'</span>';
   const monthly='<div class="table"><table class="monthly"><thead><tr><th>Year</th>'+months.map(m=>'<th class="num">'+m+'</th>').join('')+'<th class="num">Year</th></tr></thead><tbody>'+
     monthlyReturns(d).map(y=>'<tr><th>'+y.year+'</th>'+months.map((_,i)=>'<td class="num">'+pct1(y.months[i+1])+'</td>').join('')+'<td class="num"><b>'+pct1(y.total)+'</b></td></tr>').join('')+'</tbody></table></div>';
@@ -138,11 +146,11 @@ function monitor(){
     '<div class="tear"><div class="panel trajectory"><div class="top"><div><h3>Net asset value</h3><small>'+s.start+' to '+s.end+' · '+s.n+' observations · latest '+fmt(last.nav,4)+'</small></div></div>'+
     '<div class="plot"><canvas id="navChart" role="img" aria-label="Net asset value with signal dates marked along the time axis"></canvas></div>'+
     '<div class="signal-key"><b>Signal strip</b><span><i></i>Low / Watch</span><span><i class="elevated"></i>Elevated</span><span><i class="high"></i>High</span></div>'+
-    '<div class="top under"><div><h3>Drawdown from peak</h3><small>Worst '+percent(s.maxDD)+' · now '+percent(last.dd)+'</small></div></div><div class="plot dd"><canvas id="ddChart" role="img" aria-label="Drawdown from peak, in percent"></canvas></div></div>'+
-    '<div class="panel summary"><h3>Performance summary</h3>'+summary+'<small class="foot">Each observation counts as one trading day; annualized figures use '+days+' per year. VaR and CVaR are the historical 5th percentile of daily returns and the mean below it. Sharpe and Sortino assume a zero risk-free rate.</small></div></div><div class="pair">'+
+    '<div class="top under"><div><h3>Drawdown from peak</h3><small>Worst '+signed(s.maxDD)+' · now '+signed(last.dd)+'</small></div></div><div class="plot dd"><canvas id="ddChart" role="img" aria-label="Drawdown from peak, in percent"></canvas></div></div>'+
+    '<div class="side">'+card+'<div class="panel"><h3>Worst drawdowns</h3><p>Peak to recovery, deepest first. Length counts observations from the peak.</p>'+(periods.length?table(['Started','Recovered','Depth','Length'],periods,[2,3]):'<p>No drawdown in this series.</p>')+'</div></div></div>'+
+    metrics+'<div class="pair">'+
     panel('Momentum slopes','slopes','NAV change (%) per observation. The 3-obs slope leads; the 10-obs slope is its reference. Click a legend entry to hide a line.')+'<div class="panel"><h3>Exposure and volatility</h3><p>Capital in use, then annualized 10-return volatility, on the same dates.</p><div class="minis"><div><small>Exposure (%)</small><div class="plot"><canvas id="risk" role="img" aria-label="Exposure"></canvas></div></div><div><small>Annualized volatility (%)</small><div class="plot"><canvas id="vol" role="img" aria-label="Annualized volatility"></canvas></div></div></div></div></div>'+
-    '<div class="tear2"><div class="panel"><h3>Worst drawdowns</h3><p>Peak to recovery, deepest first. Length counts observations from the peak.</p>'+(periods.length?table(['Started','Trough','Recovered','Depth','Length'],periods,[3,4]):'<p>No drawdown in this series.</p>')+'</div>'+
-    '<div class="panel"><h3>Monthly returns</h3><p>Chained from the daily returns inside each calendar month.</p>'+monthly+'</div></div>'+
+    '<div class="panel"><h3>Monthly returns</h3><p>Chained from the daily returns inside each calendar month.</p>'+monthly+'</div>'+
     '<div class="panel"><h3>Alert history</h3><p>Latest 40 flagged observations, newest first.</p>'+
     (rows.length?table(['Date','Score','Signals','Review note','Level'],rows,[1]):'<p>No signals in this series.</p>')+'</div>';
   plot('navChart',labels,[line('NAV',d.map(r=>r.nav),'forest',{

diff --git a/README.md b/README.md
@@ -47,7 +47,7 @@ The first successful import replaces the demo accounts. Further imports merge on
 
 | View | What to inspect |
 | --- | --- |
-| Account monitor | Account switcher, current level and review note, NAV with its signal strip above a drawdown-from-peak chart, a performance summary (returns, risk, drawdown, exposure; Sharpe and Sortino at a zero risk-free rate, historical 95% VaR and CVaR), 3/5/10-observation slopes, exposure and volatility, the five worst drawdowns, monthly returns, and the latest 40 signal dates. |
+| Account monitor | Account switcher, current level and review note, NAV with its signal strip above a drawdown-from-peak chart, a summary card (cumulative and annualized return, volatility, latest exposure, daily return range) over the five worst drawdowns, a full metrics grid (returns, risk, drawdown, exposure; Sharpe and Sortino at a zero risk-free rate, historical 95% VaR and CVaR), 3/5/10-observation slopes, exposure and volatility, monthly returns, and the latest 40 signal dates. |
 | Stocks & bonds | Separate SPY/IEF course study with 5,536 aligned return observations. Compare historical periods and 30/90/252-session correlation windows, rebased returns and daily volatility. Export the selected period as CSV. |
 | Signal study | Five signal families, the lower-exposure comparison group, slope-gap buckets, and five-observation forward outcomes against the workspace baseline. |
 | Slope lab | Paste dated or undated NAV or equity values, run the independent warning check, and inspect the most recent 60 observations. |
